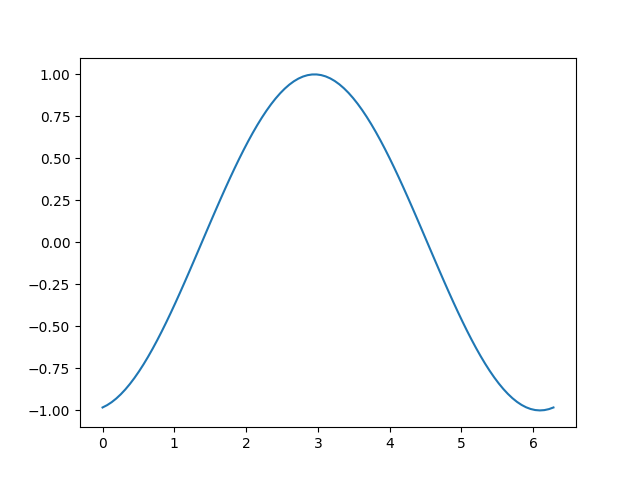
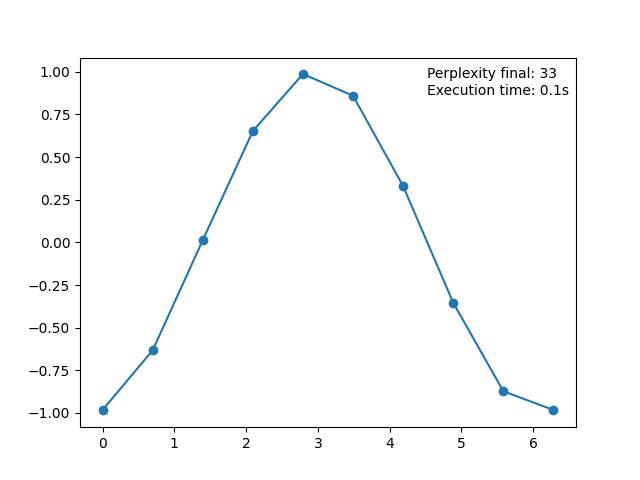
Refactor training script and update model parameters
- Updated Perplexity metric initialization to use the correct device.
- Adjusted the training loop to include an additional step for better coverage.
- Enhanced the plot for perplexity by adding markers and displaying final perplexity and execution time.
- Modified model parameters in run_model3.py: increased batch size, adjusted learning rate, and updated model dimension.

diff --git a/codebase/train.py b/codebase/train.py
@@ -231,7 +231,7 @@ def train_steps_perplexity(model, train_loader, val_loader, max_steps=1000, lr=1
     perplexities_xaxis = []
     perplexities = []
     optimizer = optim.AdamW(model.parameters(), lr=lr)
-    metric = Perplexity(ignore_index=model.get_limited_token(model.pad_token.unsqueeze(0)).item())
+    metric = Perplexity(ignore_index=model.get_limited_token(model.pad_token.unsqueeze(0)).item()).to(device)
     start_time = time.time()
     
     train_iterator = iter(train_loader)
@@ -241,7 +241,7 @@ def train_steps_perplexity(model, train_loader, val_loader, max_steps=1000, lr=1
     fig, ax = plt.subplots()
     curve_perplexity = None
 
-    while step < max_steps:
+    while step < max_steps+1:
         model.train()
         
         try:
@@ -269,12 +269,11 @@ def train_steps_perplexity(model, train_loader, val_loader, max_steps=1000, lr=1
                 perplexities_xaxis.append(step)
 
             if curve_perplexity is None:
-                curve_perplexity, = ax.plot(perplexities_xaxis, perplexities)
+                curve_perplexity, = ax.plot(perplexities_xaxis, perplexities, "o-")
                 ax.set_xlabel('Steps')
                 ax.set_ylabel('Perplexity')
                 ax.set_xlim((0, max_steps))
                 ax.grid(True)
-                ax.legend()
             else:
                 curve_perplexity.set_xdata(perplexities_xaxis)
                 curve_perplexity.set_ydata(perplexities)
@@ -290,7 +289,9 @@ def train_steps_perplexity(model, train_loader, val_loader, max_steps=1000, lr=1
 
     torch.cuda.empty_cache()
     end_time = time.time()
-    print(f"Entrenamiento completado! Tiempo total: {(end_time - start_time)/60:.2f} minutos")
+
+    box_text = f'Perplexity final: {perplexities[-1]:.2f}\nExecution time: {(end_time - start_time)/60:.2f} minutos'
+    ax.text(0.7, 0.9, box_text, transform=ax.transAxes)
     
     plt.ioff()
     plt.savefig(f'images/{model.name}_perplexity.png')
@@ -300,7 +301,7 @@ def train_steps_perplexity(model, train_loader, val_loader, max_steps=1000, lr=1
 
 def train(model, train_loader, val_loader=None, max_steps=1000, lr=1e-3, verbose_each=50, perplexity=False, plot=False):
     if perplexity:
-        out1, out2 = train_steps_perplexity(model, train_loader, val_loader, max_steps=1000, lr=1e-3, verbose_each=50)
+        out1, out2 = train_steps_perplexity(model, train_loader, val_loader, max_steps=max_steps, lr=lr, verbose_each=verbose_each)
     elif plot:
         out1, out2 = train_steps_plot(model, train_loader, val_loader, max_steps=max_steps, lr=lr, verbose_each=verbose_each)
     else:

diff --git a/run_model3.py b/run_model3.py
@@ -12,24 +12,23 @@ print(f"Usando dispositivo: {device}")
 torch.cuda.set_per_process_memory_fraction(0.9)
 
 MODEL = model3
-BATCH_SIZE = 10
+BATCH_SIZE = 16
 MAX_STEPS = 500
-LR = 1e-3
-D_MODEL = 512//2
+LR = 1e-4
+D_MODEL = 512
 N_HEAD = 4
 NUM_ENCODER_LAYERS = 3
 NUM_DECODER_LAYERS = 3
 DIM_FEEDFORWARD = 1024
-NAME = f'M{MODEL.__name__}_D{D_MODEL}_H{N_HEAD}_E{NUM_ENCODER_LAYERS}_D{NUM_DECODER_LAYERS}_F{DIM_FEEDFORWARD}_BS{BATCH_SIZE}_MS{MAX_STEPS}_LR{LR}'
+NAME = f'{MODEL.__name__}_D{D_MODEL}_H{N_HEAD}_E{NUM_ENCODER_LAYERS}_D{NUM_DECODER_LAYERS}_F{DIM_FEEDFORWARD}_BS{BATCH_SIZE}_MS{MAX_STEPS}_LR{LR}'
 
 data = pd.read_csv('data/es-es_LF_100k.txt', sep='\t', header=None, on_bad_lines='skip')
 filtered_vocab = np.load('data/sub_vocab.npy').tolist()
-data.columns = ['spanish', 'lunfardo']
+data.columns = ['sp', 'lf']
 
 from sklearn.model_selection import train_test_split
 
-X_train, X_val, y_train, y_val = train_test_split(data['spanish'], data['lunfardo'],
-                                                  test_size=0.1, random_state=28)
+X_train, X_val, y_train, y_val = train_test_split(data['sp'], data['lf'], test_size=0.05, random_state=28)
 
 train_dataset = dataset_token(X_train, y_train)
 val_dataset = dataset_token(X_val, y_val)
@@ -47,6 +46,6 @@ model = MODEL(
 
 print(f"Modelo creado con {sum(p.numel() for p in model.parameters())} parámetros")
 
-train_dataloader = DataLoader(train_dataset, batch_size=BATCH_SIZE, shuffle=True, collate_fn=custom_collate)
-val_dataloader = DataLoader(val_dataset, batch_size=BATCH_SIZE, shuffle=False, collate_fn=custom_collate)
-_, _ = train(model, train_dataloader, val_dataloader, max_steps=MAX_STEPS, lr=LR, verbose_each=10, perplexity=True)
+train_dataloader = DataLoader(train_dataset, batch_size=BATCH_SIZE, collate_fn=custom_collate)
+val_dataloader = DataLoader(val_dataset, batch_size=BATCH_SIZE, collate_fn=custom_collate)
+_, _ = train(model, train_dataloader, val_dataloader, max_steps=MAX_STEPS, lr=LR, verbose_each=MAX_STEPS//6, perplexity=True)

diff --git a/codebase/models/model3.py b/codebase/models/model3.py
@@ -173,7 +173,7 @@ class model3(nn.Module):
             tensor([[2, 1, 0],
                     [4, 3, 0]])
         '''
-        res = torch.searchsorted(self.vocab, tokens)
+        res = torch.searchsorted(self.vocab, tokens.contiguous())
         res = torch.clamp(res, 0, self.vocab_size - 1) # solucion provisoria
         return res
     
@@ -191,11 +191,10 @@ class model3(nn.Module):
                 input = input.unsqueeze(0)
 
             scores = self.forward(input, target[:, :-1]) # no incluir el token final para predecir la siguiente palabra
-            predictions = scores.reshape(-1, self.vocab_size) # (batch_size * pred_seq_length, vocab_size)
-            targets = target[:, 1:].reshape(-1) # (batch_size * target_seq_length,)
+            targets = target[:, 1:]
             limited_targets = self.get_limited_token(targets)
-        
-            metric.update(predictions, limited_targets)
+
+            metric.update(scores, limited_targets)
 
         res = metric.compute()
         metric.reset()

diff --git a/codebase/interactive_plot_example.py b/codebase/interactive_plot_example.py
@@ -4,11 +4,11 @@ import time
 
 plt.ion()  # Turn on interactive mode
 
-x = np.linspace(0, 2 * np.pi, 100)
+x = np.linspace(0, 2 * np.pi, 10)
 y = np.sin(x)
 
 fig, ax = plt.subplots()
-line, = ax.plot(x, y)
+line, = ax.plot(x, y, "o-")
 
 for i in range(50):
     new_y = np.sin(x + i * 0.1)
@@ -16,6 +16,9 @@ for i in range(50):
     fig.canvas.draw()  # Redraw the canvas
     fig.canvas.flush_events() # Process GUI events
     time.sleep(0.1)
+
+box_text = f'Perplexity final: {33}\nExecution time: {0.1}s'
+ax.text(0.7, 0.9, box_text, transform=ax.transAxes)
 
 plt.ioff() # Turn off interactive mode (optional)
 plt.savefig('images/example.png')
